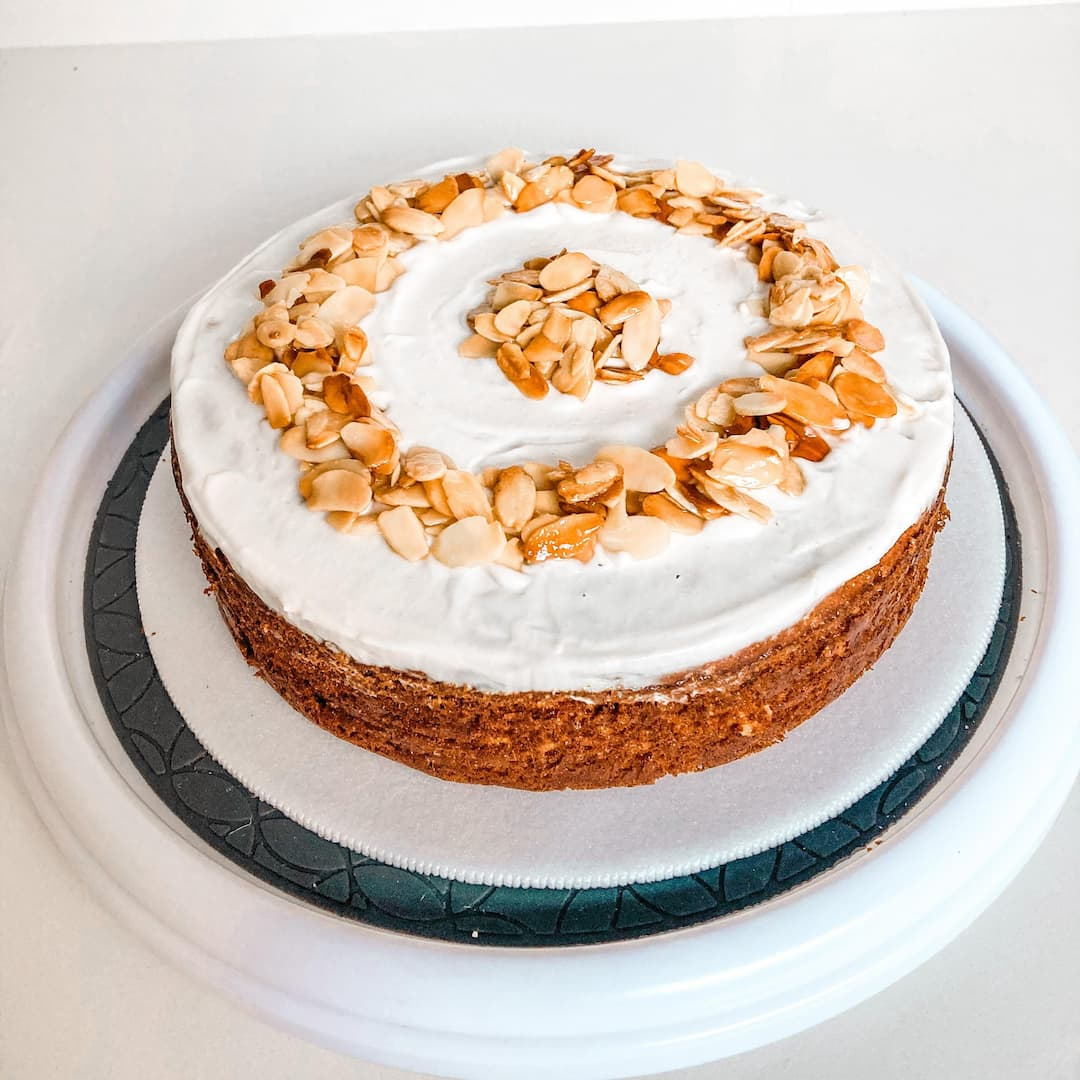
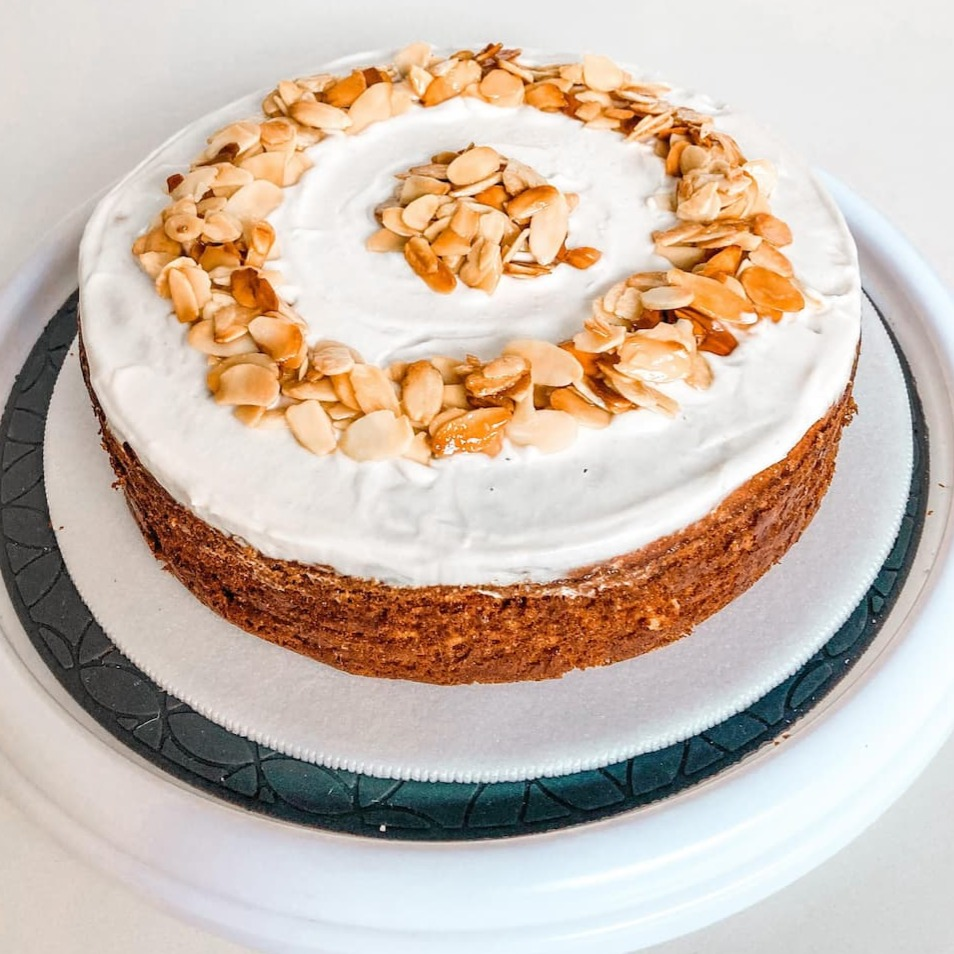
update index

diff --git a/index.html b/index.html
@@ -66,20 +66,26 @@ header.nav{position:sticky; top:0; z-index:60; background:rgba(255,255,255,.92);
 .menu-toggle svg{width:26px;height:26px;stroke:var(--bosque)}
 
 /* ---------- HERO (foto grande) ---------- */
-.hero{position:relative; overflow:hidden; min-height:84vh; display:flex; align-items:center; background:linear-gradient(135deg, var(--verde-oscuro), var(--verde))}
-.hero-media{position:absolute; inset:0; z-index:0}
-.hero-bg{width:100%; height:100%; object-fit:cover}
-.hero-overlay{position:absolute; inset:0; background:linear-gradient(180deg, rgba(18,104,57,.5), rgba(18,104,57,.66))}
-.hero-inner{position:relative; z-index:2; text-align:center; max-width:840px; margin:0 auto; padding:96px 22px 110px}
-.hero-inner .eyebrow{color:var(--verde-claro); justify-content:center}
-.hero h1{color:#fff; font-size:clamp(2.4rem,5.6vw,4.2rem); margin:16px 0 0; text-shadow:0 2px 26px rgba(0,0,0,.2)}
-.hero h1 em{color:var(--verde-claro); font-style:italic}
-.hero p.lead{color:rgba(255,255,255,.92); max-width:48ch; margin:18px auto 30px; font-size:1.12rem}
-.hero-cta{display:flex; gap:14px; flex-wrap:wrap; justify-content:center}
-.hero-wave{position:absolute; left:0; right:0; bottom:-1px; z-index:2; width:100%; height:64px; display:block}
-.chips{display:flex; gap:10px; flex-wrap:wrap; margin-top:26px; justify-content:center}
-.chip{display:inline-flex; align-items:center; gap:7px; background:rgba(255,255,255,.14); border:1px solid rgba(255,255,255,.3); border-radius:999px; padding:8px 14px; font-size:.82rem; font-weight:600; color:#fff}
-.chip svg{width:15px;height:15px;color:var(--verde-claro)}
+.hero{position:relative; overflow:hidden; background:#fff}
+.hero-in{display:grid; grid-template-columns:1.02fr .98fr; gap:50px; align-items:center; padding:72px 0 78px}
+.hero-text .eyebrow{color:var(--hoja)}
+.hero h1{color:var(--bosque); font-size:clamp(2.4rem,5vw,3.9rem); margin:14px 0 0; letter-spacing:-.01em}
+.hero h1 em{color:var(--hoja); font-style:italic}
+.hero p.lead{color:var(--tinta-suave); max-width:40ch; margin:20px 0 30px; font-size:1.12rem}
+.hero-cta{display:flex; gap:14px; flex-wrap:wrap}
+/* foto vertical en marco elegante */
+.hero-photo{position:relative}
+.hero-photo::before{content:""; position:absolute; inset:18px -16px -16px 18px; border:1.5px solid var(--hoja-claro); border-radius:24px; z-index:0}
+.hero-frame{position:relative; z-index:1; aspect-ratio:4/5; border-radius:24px; overflow:hidden; background:linear-gradient(135deg, rgba(143,193,82,.22), rgba(67,160,65,.14)); box-shadow:var(--sombra)}
+.hero-frame img{width:100%; height:100%; object-fit:cover}
+.hero-frame .ph-fallback{display:none; position:absolute; inset:0; flex-direction:column; align-items:center; justify-content:center; gap:10px; color:var(--bosque)}
+.hero-frame .ph-fallback svg{width:42px;height:42px;color:var(--hoja)}
+.hero-frame .ph-fallback b{font-family:var(--serif); font-style:italic; font-weight:700; font-size:1.05rem}
+.hero-frame.noimg img{display:none}
+.hero-frame.noimg .ph-fallback{display:flex}
+.chips{display:flex; gap:10px; flex-wrap:wrap; margin-top:6px}
+.chip{display:inline-flex; align-items:center; gap:7px; background:rgba(143,193,82,.12); border:1px solid var(--linea); border-radius:999px; padding:8px 14px; font-size:.82rem; font-weight:600; color:var(--bosque)}
+.chip svg{width:15px;height:15px;color:var(--hoja)}
 
 /* ---------- PILLARS (fila de íconos) ---------- */
 .pillars{background:rgba(143,193,82,.08); border-bottom:1px solid var(--linea)}
@@ -223,7 +229,8 @@ footer a:hover{opacity:1; color:var(--oro-claro)}
 
 /* ---------- RESPONSIVE ---------- */
 @media(max-width:920px){
-  .hero{min-height:74vh}
+  .hero-in{grid-template-columns:1fr; gap:30px; padding:44px 0}
+  .hero-photo{max-width:380px; margin:0 auto; order:-1}
   .pillars-in{grid-template-columns:repeat(2,1fr)}
   .pillar:nth-child(3){border-left:0}
   .cats-row{grid-template-columns:repeat(4,1fr); gap:14px}
@@ -281,28 +288,34 @@ footer a:hover{opacity:1; color:var(--oro-claro)}
 
 <!-- ===== HERO (foto grande) ===== -->
 <section class="hero" id="inicio">
-  <div class="hero-media" aria-hidden="true">
-    <img class="hero-bg" src="img/hero-torta.jpg" alt="" onerror="this.style.display='none'">
-    <span class="hero-overlay"></span>
-  </div>
-  <div class="hero-inner">
-    <span class="eyebrow">Repostería saludable · Ibagué, Tolima</span>
-    <h1>Celebra los momentos más dulces<br>con una torta <em>inolvidable.</em></h1>
-    <p class="lead">Sin gluten y sin azúcar refinada. Hecha a pedido con ingredientes reales para disfrutar sin remordimientos.</p>
-    <div class="hero-cta">
-      <a class="btn btn-light" id="heroWa" href="#" target="_blank" rel="noopener">
-        <svg viewBox="0 0 32 32" fill="currentColor" aria-hidden="true"><path fill-rule="evenodd" clip-rule="evenodd" d="M16 0C7.2 0 0 7.2 0 16c0 2.8.7 5.5 2.1 7.9L0 32l8.3-2.2c2.3 1.3 4.9 1.9 7.7 1.9 8.8 0 16-7.2 16-16S24.8 0 16 0zm0 29.3c-2.5 0-4.9-.7-7-1.9l-.5-.3-5 1.3 1.3-4.9-.3-.5C3.4 21 2.7 18.5 2.7 16 2.7 8.7 8.7 2.7 16 2.7S29.3 8.7 29.3 16 23.3 29.3 16 29.3zm7.3-9.9c-.4-.2-2.4-1.2-2.7-1.3-.4-.1-.6-.2-.9.2-.3.4-1 1.3-1.3 1.6-.2.3-.5.3-.9.1-.4-.2-1.7-.6-3.2-2-1.2-1.1-2-2.4-2.2-2.8-.2-.4 0-.6.2-.8l.6-.7c.2-.2.3-.4.4-.7.1-.3.1-.5 0-.7-.1-.2-.9-2.2-1.3-3-.3-.7-.7-.7-.9-.7h-.8c-.3 0-.7.1-1.1.5-.4.4-1.4 1.4-1.4 3.4s1.5 3.9 1.7 4.2c.2.3 2.9 4.5 7.1 6.3 1 .4 1.8.7 2.4.9 1 .3 1.9.3 2.6.2.8-.1 2.4-1 2.8-1.9.3-.9.3-1.7.2-1.9-.1-.2-.3-.3-.7-.5z"/></svg>
-        Hacer mi pedido
-      </a>
-      <a class="btn btn-outline-light" href="#catalogo">Ver el catálogo</a>
+  <div class="wrap hero-in">
+    <div class="hero-text reveal">
+      <span class="eyebrow">Repostería saludable · Ibagué, Tolima</span>
+      <h1>Celebra los momentos más dulces con una torta <em>inolvidable.</em></h1>
+      <p class="lead">Sin gluten y sin azúcar refinada. Hecha a pedido con ingredientes reales.</p>
+      <div class="hero-cta">
+        <a class="btn btn-wa" id="heroWa" href="#" target="_blank" rel="noopener">
+          <svg viewBox="0 0 32 32" fill="currentColor" aria-hidden="true"><path fill-rule="evenodd" clip-rule="evenodd" d="M16 0C7.2 0 0 7.2 0 16c0 2.8.7 5.5 2.1 7.9L0 32l8.3-2.2c2.3 1.3 4.9 1.9 7.7 1.9 8.8 0 16-7.2 16-16S24.8 0 16 0zm0 29.3c-2.5 0-4.9-.7-7-1.9l-.5-.3-5 1.3 1.3-4.9-.3-.5C3.4 21 2.7 18.5 2.7 16 2.7 8.7 8.7 2.7 16 2.7S29.3 8.7 29.3 16 23.3 29.3 16 29.3zm7.3-9.9c-.4-.2-2.4-1.2-2.7-1.3-.4-.1-.6-.2-.9.2-.3.4-1 1.3-1.3 1.6-.2.3-.5.3-.9.1-.4-.2-1.7-.6-3.2-2-1.2-1.1-2-2.4-2.2-2.8-.2-.4 0-.6.2-.8l.6-.7c.2-.2.3-.4.4-.7.1-.3.1-.5 0-.7-.1-.2-.9-2.2-1.3-3-.3-.7-.7-.7-.9-.7h-.8c-.3 0-.7.1-1.1.5-.4.4-1.4 1.4-1.4 3.4s1.5 3.9 1.7 4.2c.2.3 2.9 4.5 7.1 6.3 1 .4 1.8.7 2.4.9 1 .3 1.9.3 2.6.2.8-.1 2.4-1 2.8-1.9.3-.9.3-1.7.2-1.9-.1-.2-.3-.3-.7-.5z"/></svg>
+          Hacer mi pedido
+        </a>
+        <a class="btn btn-ghost" href="#catalogo">Ver el catálogo</a>
+      </div>
+      <div class="chips">
+        <span class="chip"><svg viewBox="0 0 24 24" fill="none" stroke="currentColor" stroke-width="2"><path d="M20 6L9 17l-5-5"/></svg> Sin gluten</span>
+        <span class="chip"><svg viewBox="0 0 24 24" fill="none" stroke="currentColor" stroke-width="2"><path d="M20 6L9 17l-5-5"/></svg> Sin azúcar refinada</span>
+        <span class="chip"><svg viewBox="0 0 24 24" fill="none" stroke="currentColor" stroke-width="2"><path d="M20 6L9 17l-5-5"/></svg> Hecho a pedido</span>
+      </div>
     </div>
-    <div class="chips">
-      <span class="chip"><svg viewBox="0 0 24 24" fill="none" stroke="currentColor" stroke-width="2"><path d="M20 6L9 17l-5-5"/></svg> Sin gluten</span>
-      <span class="chip"><svg viewBox="0 0 24 24" fill="none" stroke="currentColor" stroke-width="2"><path d="M20 6L9 17l-5-5"/></svg> Sin azúcar refinada</span>
-      <span class="chip"><svg viewBox="0 0 24 24" fill="none" stroke="currentColor" stroke-width="2"><path d="M20 6L9 17l-5-5"/></svg> Hecho a pedido</span>
+    <div class="hero-photo reveal">
+      <div class="hero-frame">
+        <img src="img/hero-torta.jpg" alt="Torta saludable de Las Delicias de Adri Fit" onerror="this.closest('.hero-frame').classList.add('noimg')">
+        <span class="ph-fallback">
+          <svg viewBox="0 0 24 24" fill="none" stroke="currentColor" stroke-width="1.6"><path d="M12 3c2 3 1 6-1 8 4-1 6-5 4-8M5 21c0-5 4-9 9-9"/></svg>
+          <b>Foto de tu torta</b>
+        </span>
+      </div>
     </div>
   </div>
-  <svg class="hero-wave" viewBox="0 0 1440 80" preserveAspectRatio="none" aria-hidden="true"><path fill="#ffffff" d="M0,42 C240,92 480,8 720,40 C960,72 1200,12 1440,42 L1440,80 L0,80 Z"></path></svg>
 </section>
 
 <!-- ===== PILLARS ===== -->
@@ -348,7 +361,7 @@ footer a:hover{opacity:1; color:var(--oro-claro)}
         <b>Panes</b><span class="lbl">Ver <svg viewBox="0 0 24 24" fill="none" stroke="currentColor" stroke-width="2"><path d="M5 12h14M13 6l6 6-6 6"/></svg></span>
       </button>
       <button class="cat" onclick="filterTo('postres')">
-        <span class="cat-img"><img src="img/postres-frasco.jpg" alt="Postres" loading="lazy" onerror="this.style.display='none'"></span>
+        <span class="cat-img"><img src="img/cupcakes.jpg" alt="Postres" loading="lazy" onerror="this.style.display='none'"></span>
         <b>Postres</b><span class="lbl">Ver <svg viewBox="0 0 24 24" fill="none" stroke="currentColor" stroke-width="2"><path d="M5 12h14M13 6l6 6-6 6"/></svg></span>
       </button>
     </div>
